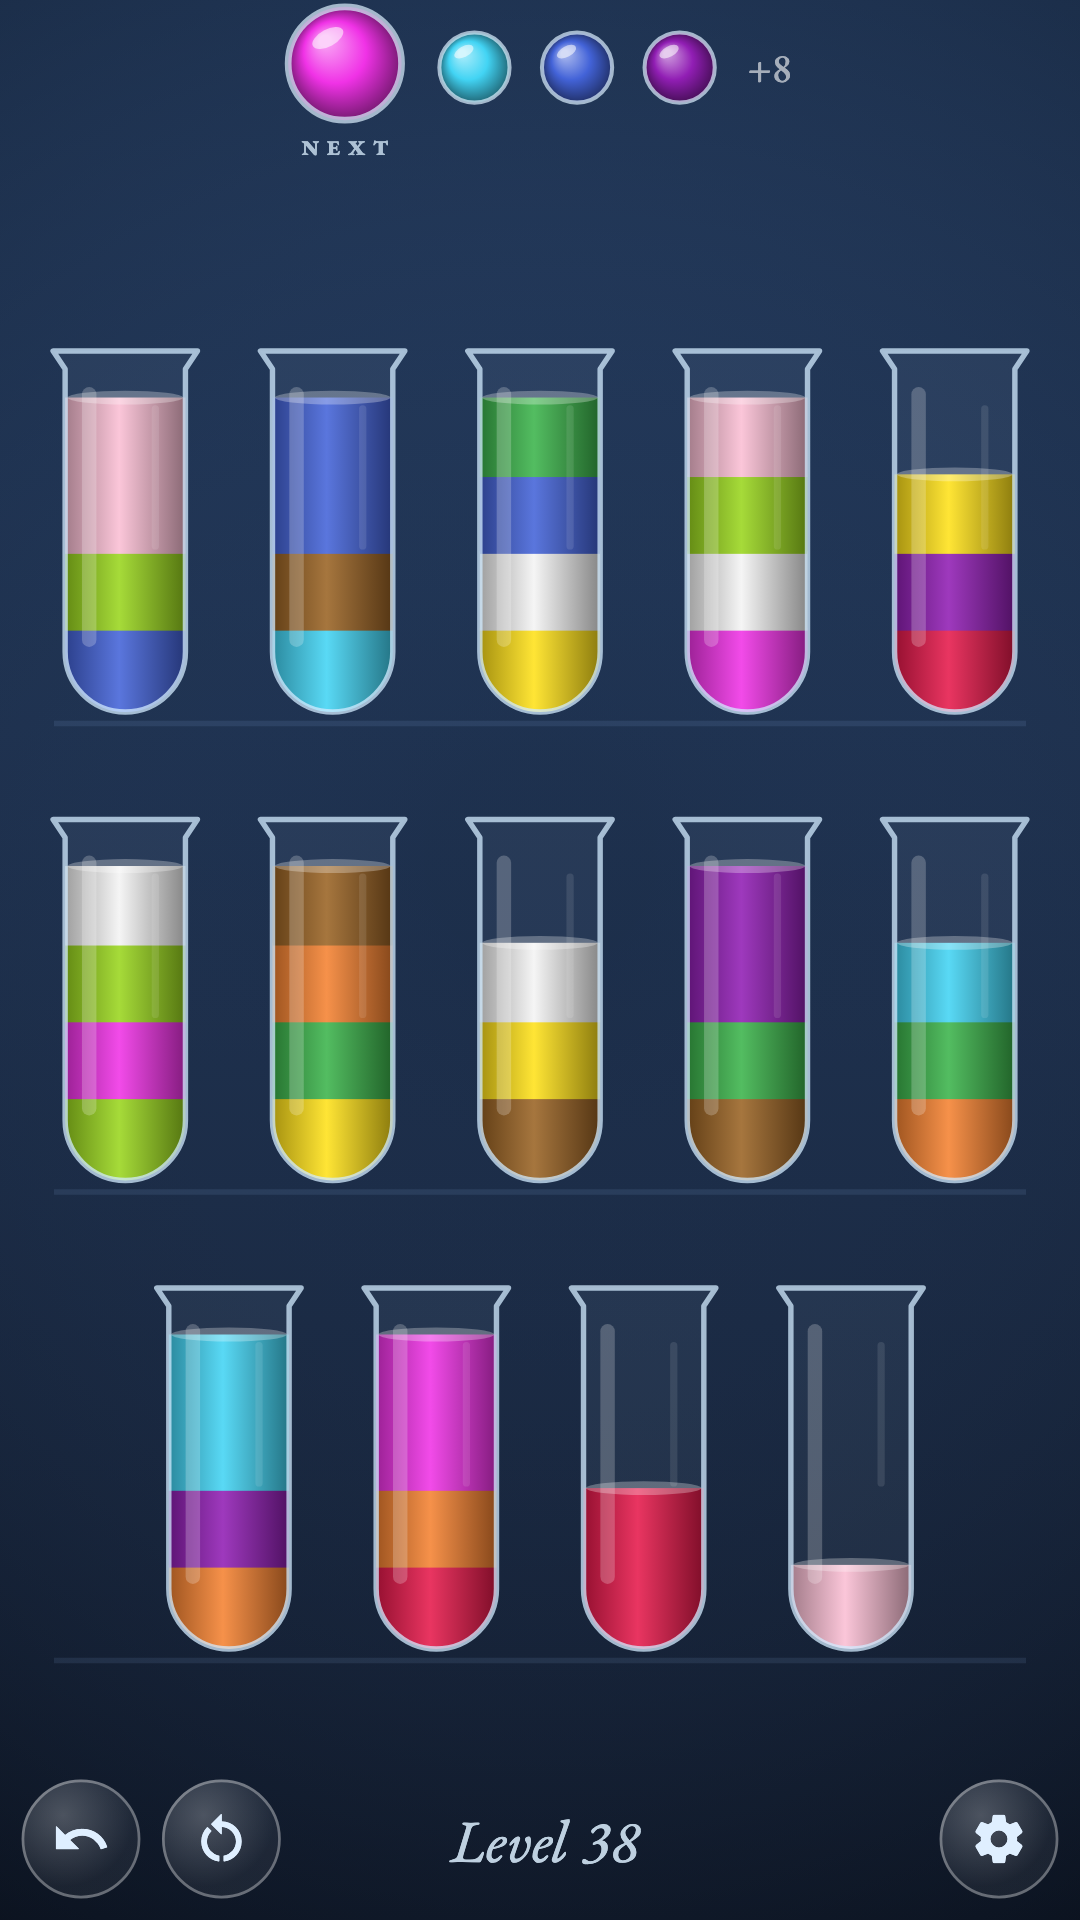
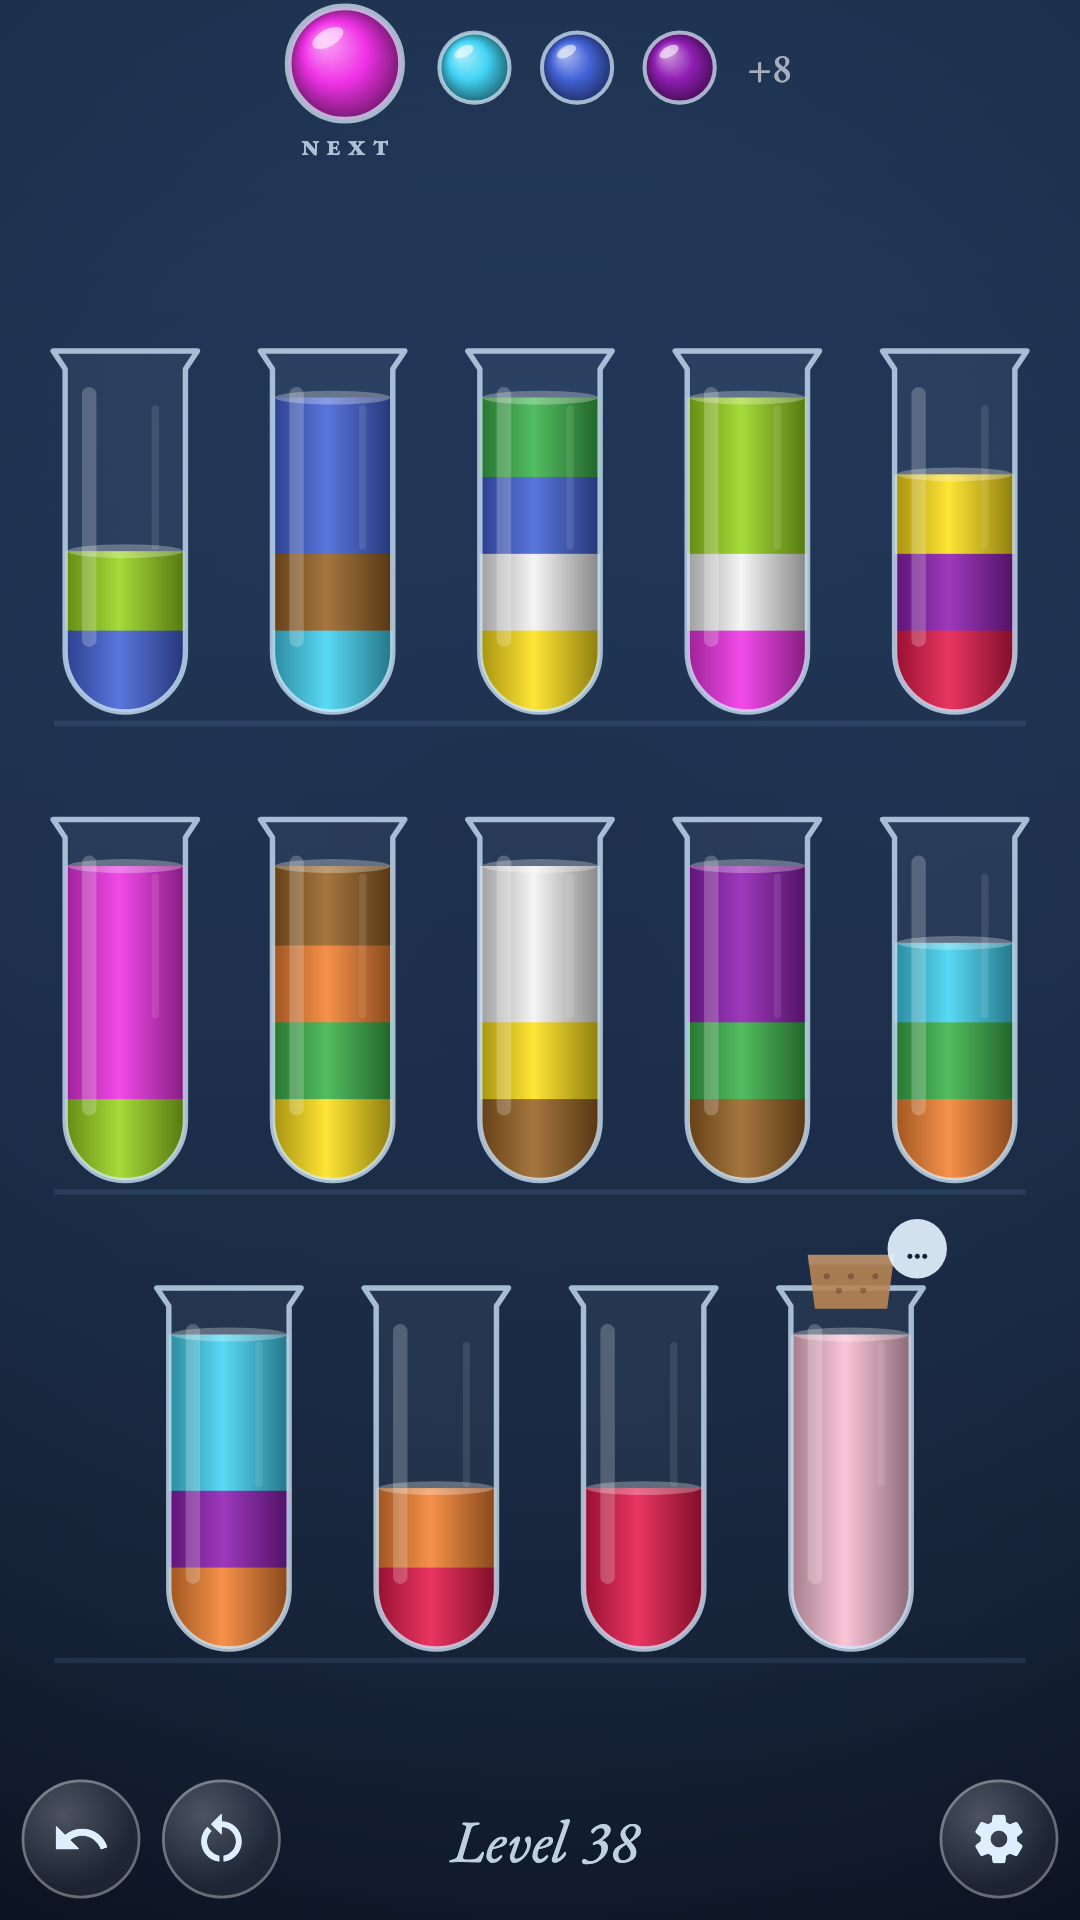
Play listing review fixes (#32)
CREDITS: icon reservation covers the listing icon + feature graphic.
Colorblind wording: red has no pattern. 2_queue shot shows a waiting
Completed Flask. render_store: _solution/_capture reuse, Level Number
naming, drop unused seed.

diff --git a/tool/render_store.dart b/tool/render_store.dart
@@ -6,7 +6,8 @@
 // icon.png 512² (IconPainter, full-bleed; Play masks it), featureGraphic.png
 // 1024×500, phoneScreenshots/*.png 1080×1920 of the real app in fixed
 // states. Deterministic: levels come from `generate`, states from its solver.
-// Checked by test/tool/store_listing_test.dart.
+// Checked by test/tool/store_listing_test.dart. The icon (also drawn in the
+// feature graphic) is all rights reserved (ADR 0003), not CC BY.
 import 'dart:io';
 import 'dart:math' as math;
 import 'dart:ui' as ui;
@@ -59,12 +60,15 @@ void _write(String path, ByteData png) => File(path)
 Future<ByteData> _png(ui.Image img) async =>
     (await img.toByteData(format: ui.ImageByteFormat.png))!;
 
-/// Pours of [n]'s solution, stopping right after one leaves a Completed
-/// Flask waiting (not the queue head) on the board, plus [extra] pours.
-List<Pour> _toWaiting(int n, {int extra = 0}) {
-  final level = generate(n).level;
-  final sol = solve(BoardState.initial(level)).solution!;
-  var s = BoardState.initial(level);
+/// Solver solution of Level [levelNumber] from its start.
+List<Pour> _solution(int levelNumber) =>
+    solve(BoardState.initial(generate(levelNumber).level)).solution!;
+
+/// Pours of [levelNumber]'s solution, stopping right after one leaves a
+/// Completed Flask waiting (not the queue head) on the board, plus [extra].
+List<Pour> _toWaiting(int levelNumber, {int extra = 0}) {
+  final sol = _solution(levelNumber);
+  var s = BoardState.initial(generate(levelNumber).level);
   for (var k = 0; k < sol.length; k++) {
     s = s.pour(sol[k].from, sol[k].to).state;
     final waiting = [
@@ -73,13 +77,13 @@ List<Pour> _toWaiting(int n, {int extra = 0}) {
     ];
     if (waiting.isNotEmpty) return sol.sublist(0, k + 1 + extra);
   }
-  throw StateError('Level $n: no waiting Completed Flask');
+  throw StateError('Level $levelNumber: no waiting Completed Flask');
 }
 
-/// First Dead End reached from [n]'s start by a seeded random walk.
-List<Pour> _toDeadEnd(int n, {int seed = 1}) {
-  final level = generate(n).level;
-  final rnd = math.Random(seed);
+/// First Dead End reached from [levelNumber]'s start by a seeded random walk.
+List<Pour> _toDeadEnd(int levelNumber) {
+  final level = generate(levelNumber).level;
+  final rnd = math.Random(1);
   for (var walk = 0; walk < 1000; walk++) {
     var s = BoardState.initial(level);
     final pours = <Pour>[];
@@ -100,43 +104,43 @@ List<Pour> _toDeadEnd(int n, {int seed = 1}) {
       if (pours.length >= 4 && isDeadEnd(s)) return pours;
     }
   }
-  throw StateError('Level $n: no Dead End found');
+  throw StateError('Level $levelNumber: no Dead End found');
 }
 
 /// One app state for a screenshot.
 class _Scene {
   const _Scene(
     this.name,
-    this.level, {
+    this.levelNumber, {
     this.pours = const [],
     this.patterns = false,
     this.pourNow,
-    this.settle = const Duration(seconds: 1),
+    this.captureAfter = const Duration(seconds: 1),
   });
 
   final String name;
-  final int level;
+  final int levelNumber;
   final List<Pour> pours;
   final bool patterns;
 
   /// A Pour tapped after restore, captured mid-animation.
   final Pour? pourNow;
-  final Duration settle;
+
+  /// Time from the last input to the capture.
+  final Duration captureAfter;
 }
 
 List<_Scene> _scenes() {
-  final w = _toWaiting(14, extra: 2);
-  final big = generate(38);
-  final bigSol = solve(BoardState.initial(big.level)).solution!;
+  final pourScene = _toWaiting(14, extra: 2);
   return [
     _Scene(
       '1_pour',
       14,
-      pours: w.sublist(0, w.length - 1),
-      pourNow: w.last,
-      settle: const Duration(milliseconds: 380),
+      pours: pourScene.sublist(0, pourScene.length - 1),
+      pourNow: pourScene.last,
+      captureAfter: const Duration(milliseconds: 380),
     ),
-    _Scene('2_queue', 38, pours: bigSol.sublist(0, 10)),
+    _Scene('2_queue', 38, pours: _toWaiting(38)),
     _Scene('3_patterns', 22, pours: _toWaiting(22), patterns: true),
     _Scene('4_dead_end', 18, pours: _toDeadEnd(18)),
   ];
@@ -145,33 +149,37 @@ List<_Scene> _scenes() {
 SaveStore _save(_Scene s) {
   final kv = MemoryStore();
   final store = SaveStore(kv, log: (_) {});
-  final game = Game(generate(s.level).level);
+  final game = Game(generate(s.levelNumber).level);
   for (final p in s.pours) {
     game.pour(p.from, p.to);
   }
   store
-    ..levelStarted(s.level, game)
+    ..levelStarted(s.levelNumber, game)
     ..saveSettings(Settings(colorblindPatterns: s.patterns, sound: false));
   return SaveStore(kv, log: (_) {}); // as on relaunch
 }
 
-Future<void> _capture(WidgetTester tester, String path) async {
+Future<void> _capture(
+  WidgetTester tester,
+  String path, {
+  double pixelRatio = 1,
+}) async {
   final boundary = tester.renderObject<RenderRepaintBoundary>(
     find.byKey(const ValueKey('shot')),
   );
   await tester.runAsync(() async {
-    _write(path, await _png(await boundary.toImage(pixelRatio: _shotDpr)));
+    _write(path, await _png(await boundary.toImage(pixelRatio: pixelRatio)));
   });
 }
 
-/// Lets the off-thread Dead End check finish, then settles the frame.
-Future<void> _settle(WidgetTester tester, Duration d) async {
+/// Lets the off-thread Dead End check finish, then pumps [d].
+Future<void> _awaitDeadEndCheck(WidgetTester tester, Duration d) async {
   await tester.pump();
   await tester.runAsync(() => Future<void>.delayed(const Duration(seconds: 1)));
   await tester.pump(d);
 }
 
-Widget _feature(String locale) => Directionality(
+Widget _featureGraphic(String locale) => Directionality(
   textDirection: TextDirection.ltr,
   child: CustomPaint(
     painter: const BackdropPainter(),
@@ -231,17 +239,9 @@ void main() {
         ..devicePixelRatio = 1;
       addTearDown(tester.view.reset);
       await tester.pumpWidget(
-        RepaintBoundary(key: const ValueKey('shot'), child: _feature(l)),
+        RepaintBoundary(key: const ValueKey('shot'), child: _featureGraphic(l)),
       );
-      final boundary = tester.renderObject<RenderRepaintBoundary>(
-        find.byKey(const ValueKey('shot')),
-      );
-      await tester.runAsync(() async {
-        _write(
-          '$_root/$l/images/featureGraphic.png',
-          await _png(await boundary.toImage()),
-        );
-      });
+      await _capture(tester, '$_root/$l/images/featureGraphic.png');
     });
   }
 
@@ -267,17 +267,18 @@ void main() {
             ),
           ),
         );
-        await _settle(tester, const Duration(seconds: 2));
+        await _awaitDeadEndCheck(tester, const Duration(seconds: 2));
         if (s.pourNow case final p?) {
           await tester.tap(find.byKey(ValueKey('flask-${p.from}')));
           await tester.pump(const Duration(milliseconds: 300));
           await tester.tap(find.byKey(ValueKey('flask-${p.to}')));
           await tester.pump();
         }
-        await tester.pump(s.settle);
+        await tester.pump(s.captureAfter);
         await _capture(
           tester,
           '$_root/$l/images/phoneScreenshots/${s.name}.png',
+          pixelRatio: _shotDpr,
         );
         // Let pending animations and timers finish before teardown.
         await tester.pump(const Duration(seconds: 5));

diff --git a/CREDITS.md b/CREDITS.md
@@ -43,9 +43,11 @@ name, author, source URL, license, and what it is used for.
 
 ## App icon
 
-The app icon (`assets/icon/` and the per-platform icon files) is original
-work drawn by `tool/render_icon.dart` from `IconPainter`. It is **all rights
-reserved**, not CC BY (ADR 0003; see README, Trademark).
+The app icon (`assets/icon/`, the per-platform icon files, and the Play
+listing `icon.png` and `featureGraphic.png` under `fastlane/metadata/`) is
+original work drawn from `IconPainter` by `tool/render_icon.dart` and
+`tool/render_store.dart`. It is **all rights reserved**, not CC BY (ADR 0003;
+see README, Trademark).
 
 ## Software
 
